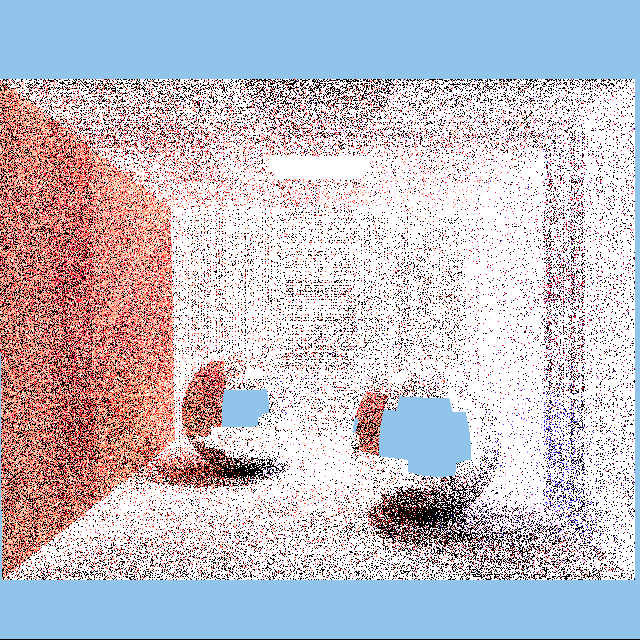
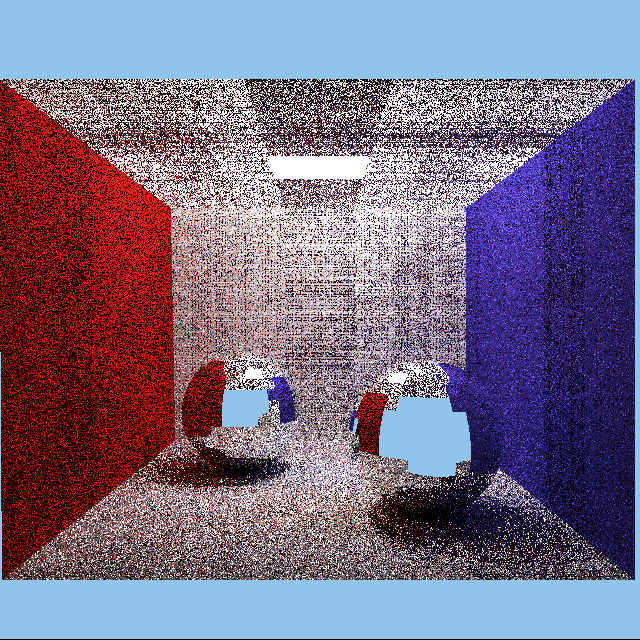
added point light attenuation & decreased light emission amount

diff --git a/VolumeRenderer/RayTracer/Utils/DirectLightSampler.cpp b/VolumeRenderer/RayTracer/Utils/DirectLightSampler.cpp
@@ -16,7 +16,14 @@ Vec3f DirectLightSampler::Sample(Vec3f origin, SceneInfo* sceneInfo)
 	for (auto& light : sceneInfo->lights)
 	{
 		if (SampleLight(origin, (light.position - origin) * 0.001f, irradiance, light, sceneInfo))
-			break;
+		{
+			//https://geom.io/bakery/wiki/index.php?title=Point_Light_Attenuation
+			//Bakery's "pysicall falloff"
+			auto distance2 = Utils::distance2(light.position, origin);
+			auto attenuationFactor = 1 / (distance2 + 1);
+
+			return attenuationFactor * irradiance;
+		}
 	}
 
 	return irradiance;

diff --git a/VolumeRenderer/RayTracer/SceneRenderer.cpp b/VolumeRenderer/RayTracer/SceneRenderer.cpp
@@ -54,7 +54,7 @@ void SceneRenderer::RenderScene(Options options)
 	SceneInfo* sceneInfo = SceneLoader::initializeScene(device, options);
 
 	Renderer::render(options, sceneInfo);
-	/*Renderer::renderPixel(319, 223, options, sceneInfo);*/
+	//Renderer::renderPixel(255, 211, options, sceneInfo);
 
 	/* Though not strictly necessary in this example, you should
 	 * always make sure to release resources allocated through Embree. */

diff --git a/VolumeRenderer/RayTracer/Utils/DirectLightSampler.h b/VolumeRenderer/RayTracer/Utils/DirectLightSampler.h
@@ -4,6 +4,7 @@
 
 #include "Types.h"
 #include "../BaseIntersectionHandler.h"
+#include "Utils.h"
 
 class DirectLightSampler
 {
